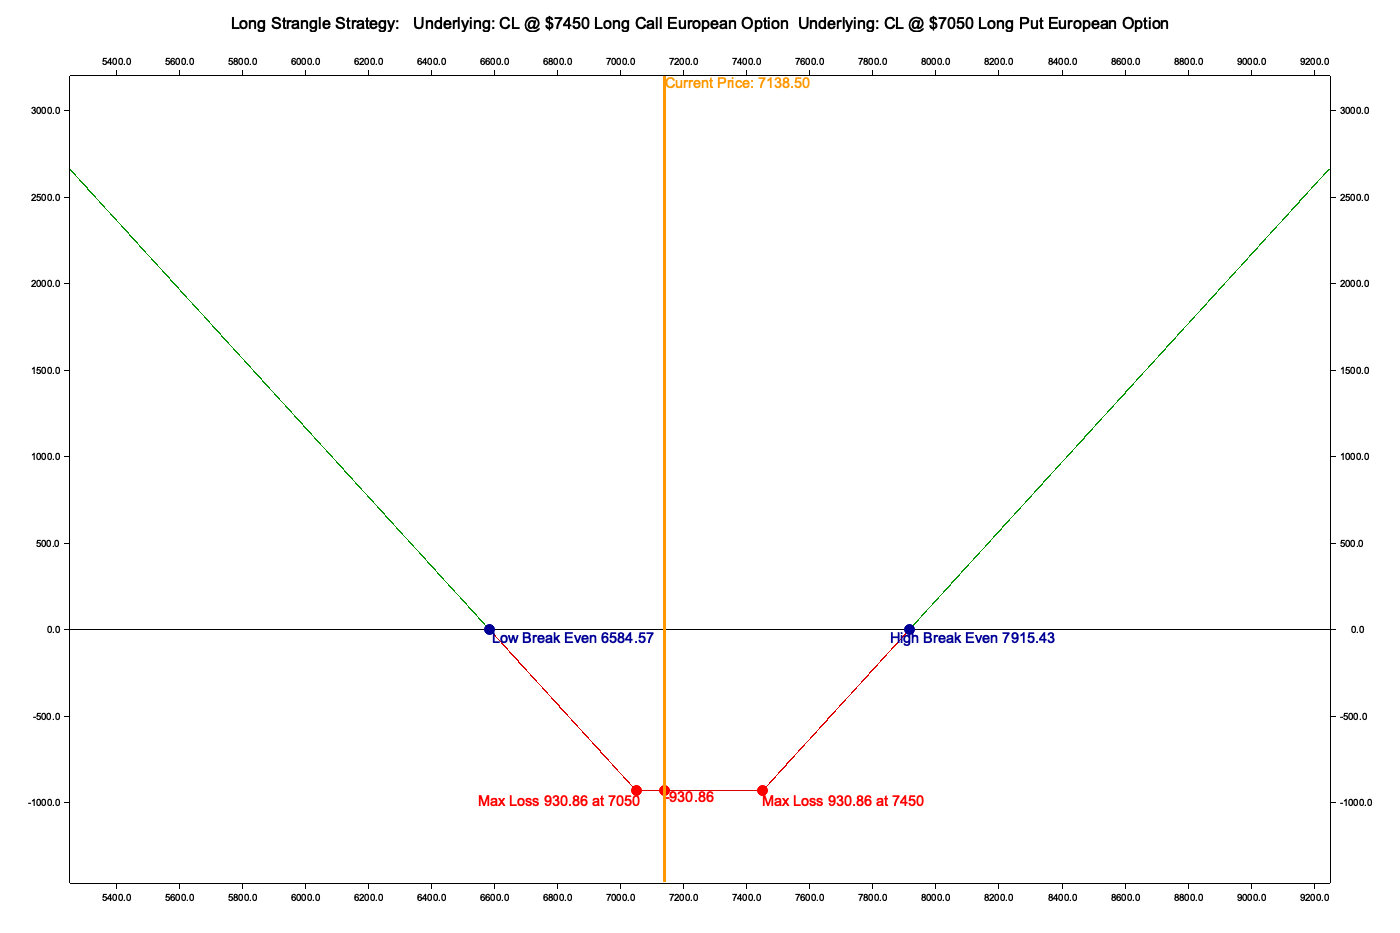
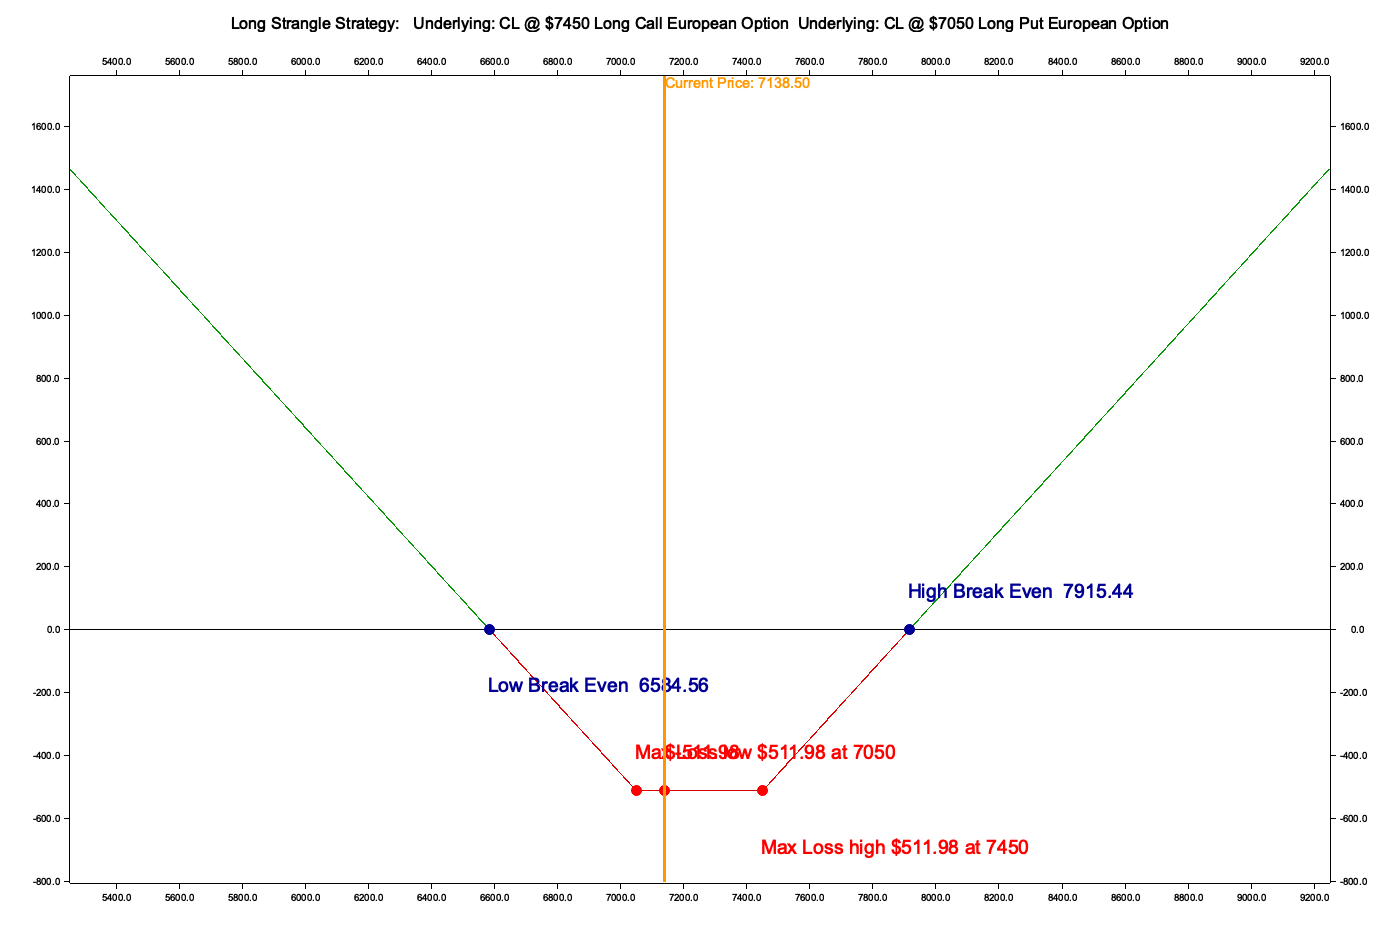
Refactor break-even point calculation for Long Strangle.
Moved break-even point logic to a new `update_break_even_points` method for better modularity and clarity. Adjusted quantity in the example strategy and updated imports across affected tests for consistency. Refactored to simplify `net_quantity` usage and improve maintainability.

diff --git a/src/strategies/strangle.rs b/src/strategies/strangle.rs
@@ -32,7 +32,7 @@ use crate::strategies::probabilities::utils::VolatilityAdjustment;
 use crate::strategies::utils::{calculate_price_range, FindOptimalSide, OptimizationCriteria};
 use crate::visualization::model::{ChartPoint, ChartVerticalLine, LabelOffsetType};
 use crate::visualization::utils::Graph;
-use crate::{pos, Options, Positive};
+use crate::{Options, Positive};
 use chrono::Utc;
 use num_traits::{FromPrimitive, ToPrimitive};
 use plotters::prelude::full_palette::ORANGE;
@@ -816,17 +816,9 @@ impl LongStrangle {
             .add_position(&long_put.clone())
             .expect("Invalid position");
 
-        let net_quantity = (long_call.option.quantity + long_put.option.quantity) / pos!(2.0);
-
         strategy
-            .break_even_points
-            .push((put_strike - strategy.total_cost().unwrap() / net_quantity).round_to(2));
-
-        strategy
-            .break_even_points
-            .push((call_strike + strategy.total_cost().unwrap() / net_quantity).round_to(2));
-
-        strategy.break_even_points.sort();
+            .update_break_even_points()
+            .expect("Unable to update break even points");
 
         strategy
     }
@@ -835,6 +827,26 @@ impl LongStrangle {
 impl BreakEvenable for LongStrangle {
     fn get_break_even_points(&self) -> Result<&Vec<Positive>, StrategyError> {
         Ok(&self.break_even_points)
+    }
+
+    fn update_break_even_points(&mut self) -> Result<(), StrategyError> {
+        self.break_even_points = Vec::new();
+
+        let total_premium = self.net_cost()?;
+
+        self.break_even_points.push(
+            (self.long_put.option.strike_price - (total_premium / self.long_put.option.quantity))
+                .round_to(2),
+        );
+
+        self.break_even_points.push(
+            (self.long_call.option.strike_price
+                + (total_premium / self.long_call.option.quantity))
+                .round_to(2),
+        );
+
+        self.break_even_points.sort();
+        Ok(())
     }
 }
 
@@ -2548,7 +2560,7 @@ mod tests_short_strangle_delta {
     use crate::strategies::delta_neutral::{DeltaAdjustment, DeltaNeutrality};
     use crate::strategies::strangle::Positive;
     use crate::strategies::strangle::ShortStrangle;
-    use crate::{assert_decimal_eq, assert_pos_relative_eq};
+    use crate::{assert_decimal_eq, assert_pos_relative_eq, pos};
     use rust_decimal_macros::dec;
 
     fn get_strategy(call_strike: Positive, put_strike: Positive) -> ShortStrangle {
@@ -2675,7 +2687,7 @@ mod tests_long_strangle_delta {
     use crate::strategies::delta_neutral::DELTA_THRESHOLD;
     use crate::strategies::delta_neutral::{DeltaAdjustment, DeltaNeutrality};
     use crate::strategies::strangle::{LongStrangle, Positive};
-    use crate::{assert_decimal_eq, assert_pos_relative_eq};
+    use crate::{assert_decimal_eq, assert_pos_relative_eq, pos};
     use rust_decimal_macros::dec;
 
     fn get_strategy(call_strike: Positive, put_strike: Positive) -> LongStrangle {
@@ -2804,7 +2816,7 @@ mod tests_short_strangle_delta_size {
     use crate::strategies::delta_neutral::{DeltaAdjustment, DeltaNeutrality};
     use crate::strategies::strangle::Positive;
     use crate::strategies::strangle::ShortStrangle;
-    use crate::{assert_decimal_eq, assert_pos_relative_eq};
+    use crate::{assert_decimal_eq, assert_pos_relative_eq, pos};
     use rust_decimal_macros::dec;
 
     fn get_strategy(call_strike: Positive, put_strike: Positive) -> ShortStrangle {
@@ -2931,7 +2943,7 @@ mod tests_long_strangle_delta_size {
     use crate::strategies::delta_neutral::DELTA_THRESHOLD;
     use crate::strategies::delta_neutral::{DeltaAdjustment, DeltaNeutrality};
     use crate::strategies::strangle::{LongStrangle, Positive};
-    use crate::{assert_decimal_eq, assert_pos_relative_eq};
+    use crate::{assert_decimal_eq, assert_pos_relative_eq, pos};
     use rust_decimal_macros::dec;
 
     fn get_strategy(call_strike: Positive, put_strike: Positive) -> LongStrangle {

diff --git a/examples/examples_strategies/src/bin/strategy_long_strangle.rs b/examples/examples_strategies/src/bin/strategy_long_strangle.rs
@@ -24,7 +24,7 @@ fn main() -> Result<(), Box<dyn Error>> {
         pos!(0.3745),   // implied_volatility
         dec!(0.05),     // risk_free_rate
         Positive::ZERO, // dividend_yield
-        pos!(2.1),      // quantity
+        pos!(1.1),      // quantity
         pos!(84.2),     // premium_short_call
         pos!(353.2),    // premium_short_put
         pos!(7.01),     // open_fee_short_call
